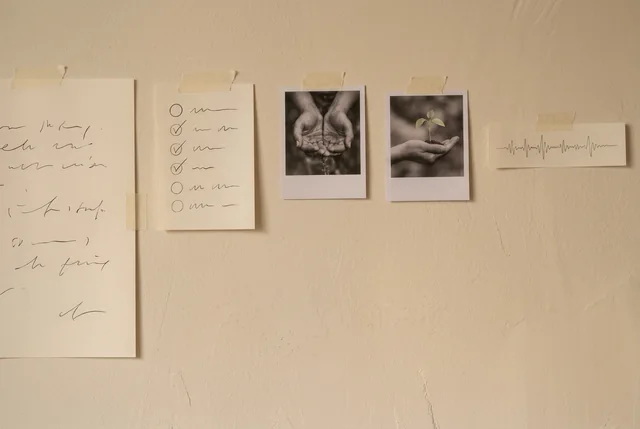
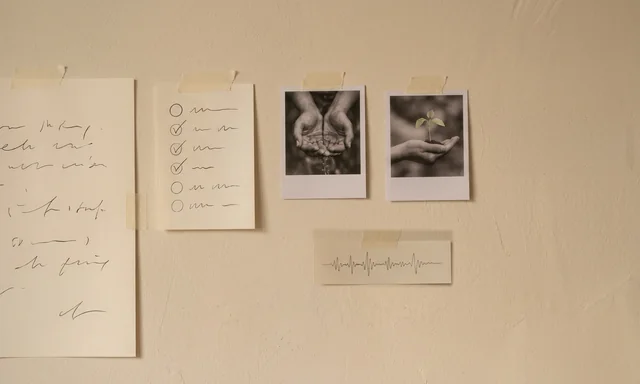
Feed: on a tablet and a phone the strip hangs under the prints
The tall plate is recomposed: the strip with the sound-wave moves from the end
of the row to under the two prints, the plate is cropped to the group, and the
head and the first post follow it higher.

Claude-Session: https://claude.ai/code/session_01W6EuJWVYaZNuEGMC8Zs2Pg

diff --git a/src/components/platform/feed/Feed.module.css b/src/components/platform/feed/Feed.module.css
@@ -1543,9 +1543,10 @@ a.commentFace {
    plaster under its row of pieces. */
 @media (max-width: 56rem) {
   .wall {
-    /* The tall plate is 1264×848. */
-    --stage-h: min(67.1vw, 36rem);
-    --wall-head: min(60vw, 25rem);
+    /* The tall plate is 1264×760: the strip stands under the two prints, so the
+       whole group is about 56% of the width tall and the head follows it. */
+    --stage-h: min(60.1vw, 32rem);
+    --wall-head: min(56vw, 23rem);
   }
 
   .stagePhoto {
